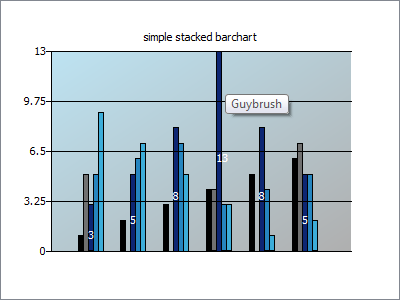
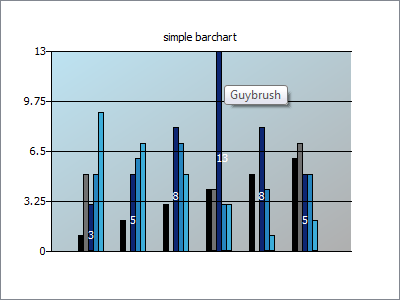
minor documentation fixes for barchart

Changed region(s): [[0.54, 0.27, 0.75, 0.39], [0.36, 0.09, 0.66, 0.15]]

diff --git a/qtcharts/example/barchart/main.cpp b/qtcharts/example/barchart/main.cpp
@@ -57,7 +57,7 @@ int main(int argc, char *argv[])
 
     QChartView* chartView =  new QChartView(&window);
     chartView->addSeries(series);
-    chartView->setChartTitle("simple stacked barchart");
+    chartView->setChartTitle("simple barchart");
     chartView->setChartTheme(QChart::ChartThemeIcy);
     //! [5]
 

diff --git a/qtcharts/src/qseries.cpp b/qtcharts/src/qseries.cpp
@@ -48,7 +48,7 @@
 */
 
 /*!
-    \fn QList<QSeries::Legend> legend()
+    \fn QList<QSeries::Legend> QSeries::legend()
     \brief Returns the legend of the series. If series is empty, empty list is returned.
 */
 
